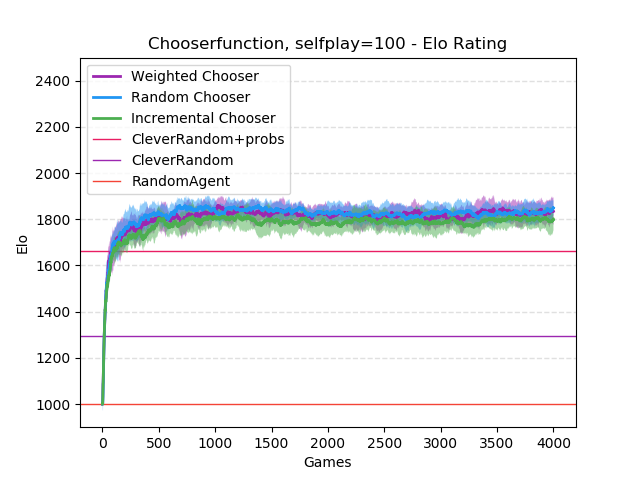
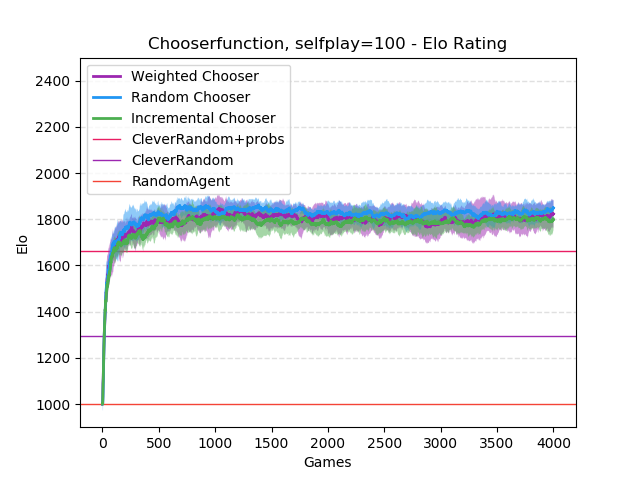
plots

Changed region(s): [[0.1875, 0.4062, 0.875, 0.5312]]

diff --git a/plotgenerators/chooserplot.py b/plotgenerators/chooserplot.py
@@ -8,3 +8,12 @@ for selfplay in [20, 50, 100]:
         for EloOverTime, name, agent, color in Data([f".\\outputs\\{a[0]}\\csv" for a in l], colors=[a[2] for a in l], elo=False):
             name = [a[1] for a in l if a[0] == name][0]
             plt.varPlot(plt, EloOverTime, name, color)
+
+for selfplay in [20, 50, 100]:
+
+    l = [(f'NN-Selfplay-{selfplay}-weighted-lr=0.0002-K=2000', 'Weighted Chooser', '#9C27B0'), (f'NN-Selfplay-{selfplay}-random-lr=0.0002-K=2000', 'Random Chooser', '#2196F3'), (f'NN-Selfplay-{selfplay}-incremental-lr=0.0002-K=2000', 'Incremental Chooser', '#4CAF50')]
+
+    with EloPlot(title=f'Chooserfunction, selfplay={selfplay}, K=2000 - Elo Rating', saves=[f'GoodPlots/Chooser-{selfplay}-explore.png']) as plt:
+        for EloOverTime, name, agent, color in Data([f".\\outputs\\{a[0]}\\csv" for a in l], colors=[a[2] for a in l], elo=False):
+            name = [a[1] for a in l if a[0] == name][0]
+            plt.varPlot(plt, EloOverTime, name, color)
